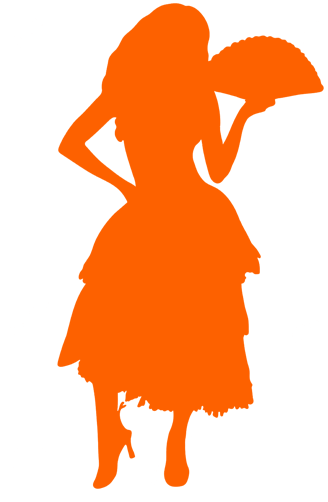
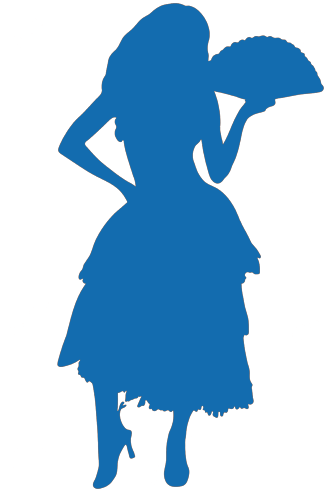
realizados los cambios para otimización del evento reina del guayas 2019

diff --git a/public/css/frontend.css b/public/css/frontend.css
@@ -108,16 +108,16 @@ hr {
 
 .inner-container {
     background: #EDEDED;
-    border: 1px solid #ff7200;
+    border: 1px solid #136CAF;
     padding:  20px
 }
 
 .inner-container img {
-    width: 15%!important;
+    width: 20%!important;
 }
 
 .inner-container h1 {
-    color: #ff7200;
+    color: #136CAF;
     text-transform: uppercase;
     text-align: center;
     font-weight: bolder;
@@ -164,7 +164,7 @@ hr {
     font-weight: bold;
 }
 .event-icon:hover {
-    background: #fdbe25;
+    background: #f8c900;
     text-decoration: none;
     color: #ffffff
 }
@@ -423,14 +423,14 @@ hr {
 
 .btn-vote {
     color: #fff;
-    background-color: #fe7c34;
-    border-color: #aa9335;
+    background-color: #ef1e38;
+    border-color: #b8172a;
     border-radius: 2px;
     margin-top: 5px;
 }
 
 .btn-vote:hover {
-    background-color: #aa9335;
+    background-color: #b8172a;
     color: #fff;
 }
 
@@ -484,9 +484,25 @@ hr {
     background: #36446b;
     border-radius: 5px;
     color: #ffffff;
-    border: 1px solid #ff7200;
+    border: 1px solid #136CAF;
 }
 
-#puntaje>option:focus, {
+#puntaje>option:focus {
     font-size: 40px;
+}
+
+.show-miss-header {
+    color:#de1b1a;
+}
+
+.panel-default>.panel-heading, 
+.panel-default>.panel-body{
+    background-color: rgb(211, 224, 233, 0.5);
+}
+
+.back-logo-institution {
+    background-image: url('../images/logo.png');
+    background-repeat: no-repeat;
+    background-position: right top;
+    background-size: contain;
 }

diff --git a/public/css/login.css b/public/css/login.css
@@ -223,13 +223,13 @@ form:after {
 .login_content form input[type="text"]:focus,
 .login_content form input[type="email"]:focus,
 .login_content form input[type="password"]:focus {
-    -webkit-box-shadow: 0 0 2px #ff7200 inset;
-    -moz-box-shadow: 0 0 2px #ff7200 inset;
-    -ms-box-shadow: 0 0 2px #ff7200 inset;
-    -o-box-shadow: 0 0 2px #ff7200 inset;
-    box-shadow: 0 0 2px #ff7200 inset;
+    -webkit-box-shadow: 0 0 2px #136CAF inset;
+    -moz-box-shadow: 0 0 2px #136CAF inset;
+    -ms-box-shadow: 0 0 2px #136CAF inset;
+    -o-box-shadow: 0 0 2px #136CAF inset;
+    box-shadow: 0 0 2px #136CAF inset;
     background-color: #fff;
-    border: 1px solid #ff7200;
+    border: 1px solid #136CAF;
     outline: none;
 }
 
@@ -314,14 +314,14 @@ header {
 
 .btn-submit {
     color: #ffffff;
-    background-color: #ff7200;
-    border-color: #ff7200;
+    background-color: #136CAF;
+    border-color: #136CAF;
 }
 
 .btn-submit:hover {
     color: #ffffff;
-    background-color: #ff7200;
-    border-color: #ff7200;
+    background-color: #136CAF;
+    border-color: #136CAF;
 }
 
 .copyright {

diff --git a/resources/views/app/show.blade.php b/resources/views/app/show.blade.php
@@ -2,19 +2,20 @@
 
 @section('content')
 <div class="container-index">
-    <div class="vertical-center inner-container col-md-10 col-md-offset-1">
-    	<img src="{{ asset('images/logo.png') }}" style="width: 15%;display: block;margin:0 auto" class="img-responsive text-center" alt="">
+    <div class="vertical-center inner-container col-md-10 col-md-offset-1 back-logo-institution">
+    	{{-- <img src="{{ asset('images/logo_reinas.png') }}" style="width: 15%;display: block;margin:0 auto" class="img-responsive text-center" alt=""> --}}
         <h1 class="text-center"> {{config('app.name')}} {{date('Y')}} - {{$current_event->name}} </h1>
         <p class="text-center">
-	        <small>Hola, {{Auth::user()->username}}</small> 
-	        <a class="btn btn-danger" href="{{ route('logout') }}" onclick="event.preventDefault();document.getElementById('logout-form').submit();">Salir</a>
+			Hola, {{Auth::user()->username}}
+			<br>
+	        <a class="btn btn-danger" href="{{ route('logout') }}" onclick="event.preventDefault();document.getElementById('logout-form').submit();"> <i class="fa fa-sign-out"></i> Salir</a>
 	        <form id="logout-form" action="{{ route('logout') }}" method="POST" style="display: none;">
 	            {{ csrf_field() }}
 	        </form>
         </p>
 
         @foreach ($misses as $miss)
-	        <h3 class="text-center"><b><span style="color: #ff7200">{{strtoupper($miss->city->name)}}</span> - {{explode(' ',$miss->name)[0]}} {{explode(' ',$miss->last_name)[0]}}</b></h3>
+	        <h3 class="text-center show-miss-header text-uppercase"><b>{{strtoupper($miss->city->name)}}</b></h3>
 	        <div class="col-md-8">
 	        	<img src="{{ asset($miss->photos) }}" alt="" class="img-responsive text-center img-block" style="width: 42%!important">
 	        </div>
@@ -45,7 +46,7 @@
 		        				<option value="{{$i}}" @if(App\Score::get($current_event->id,$miss->city->id,Auth::id()) == $i) selected @endif>{{$i}} Puntos</option>
 		        			@endfor
 		        		</select>
-		        		<button type="submit" class="btn btn-vote btn-block"><i class="fa fa-heart"></i> <b>VOTAR</b></button>
+		        		<button type="submit" class="btn btn-vote btn-block btn-lg"><i class="fa fa-heart"></i> <b>VOTAR</b></button>
 		        	</form>
 		        	<hr style="margin-top: 5px">
 		        	@endcan

diff --git a/resources/views/app/home.blade.php b/resources/views/app/home.blade.php
@@ -1,15 +1,15 @@
 @extends('layouts.frontend')
 
 @section('content')
-<div class="container-index">
-    <div class="vertical-center inner-container col-md-10 col-md-offset-1">
-        <img src="{{ asset('images/logo.png') }}" style="width: 70%;display: block;margin:0 auto" class="img-responsive text-center" alt="">
+<div class="container-index  ">
+    <div class="vertical-center inner-container col-md-10 col-md-offset-1 ">
+        <img src="{{ asset('images/logo_reinas.png') }}" style="width: 70%;display: block;margin:0 auto" class="img-responsive text-center" alt="">
         <h1 class="text-center"> {{config('app.name')}} - {{date('Y')}}  </h1>
 
-        <div class="panel panel-default">
+        <div class="panel panel-default back-logo-institution">
             <div class="panel-heading text-center" style="font-size: 20px"><b>Seleccione un evento para continuar</b>
                 <br>
-                <a class="btn btn-danger" href="{{ route('logout') }}" onclick="event.preventDefault();document.getElementById('logout-form').submit();">Salir</a>
+                <a class="btn btn-danger" href="{{ route('logout') }}" onclick="event.preventDefault();document.getElementById('logout-form').submit();"> <i class="fa fa-sign-out"></i> Salir</a>
                 <form id="logout-form" action="{{ route('logout') }}" method="POST" style="display: none;">
                     {{ csrf_field() }}
                 </form>

diff --git a/app/Http/Controllers/HomeController.php b/app/Http/Controllers/HomeController.php
@@ -5,23 +5,26 @@ namespace App\Http\Controllers;
 use Illuminate\Http\Request;
 use App\RepositoryInterface\MissRepositoryInterface;
 use App\RepositoryInterface\EventRepositoryInterface;
+use App\RepositoryInterface\ScoreRepositoryInterface;
 
 class HomeController extends Controller
 {
     
     protected $event;
     protected $miss;
+    protected $score;
 
     /**
      * Create a new controller instance.
      *
      * @return void
      */
-    public function __construct(EventRepositoryInterface $event, MissRepositoryInterface $miss)
+    public function __construct(EventRepositoryInterface $event, MissRepositoryInterface $miss, ScoreRepositoryInterface $score)
     {
         $this->middleware('auth');
         $this->event = $event;
         $this->miss = $miss;
+        $this->score = $score;
     }
 
     /**
@@ -47,7 +50,9 @@ class HomeController extends Controller
             return redirect('home');
 
         if ($this->event->getCurrent()->generateSlug() == 'ronda-de-preguntas') {
-            $misses = $this->miss->semifinalist();
+            $citiesSemifinalists = $this->score->getSemifinalist();
+            $misses = $this->miss->semifinalist($citiesSemifinalists);
+            
         } else {
             $misses = $this->miss->paginate();
         }

diff --git a/resources/views/admin/home.blade.php b/resources/views/admin/home.blade.php
@@ -198,7 +198,7 @@
 						<tr>
 							<th></th>
 						@foreach ($events as $key =>  $event)
-							<th colspan="9">
+							<th colspan="{{count($judges) + 2 }} ">
 								{{ $event->name }}
 							</th>
 							@if ( ($key + 1) == 2  )
@@ -228,10 +228,10 @@
 					@foreach (App\Score::getFullScore() as $element)
 						<tr>
 							<td><b>{{ $element->canton }}</b></td>
-							@for ($i = 0; $i < count($events) ; $i++)
+							@for ($i = 0; $i < 3 ; $i++)
 								@for ($j = 0; $j < count($judges) ; $j++)
-								@php $score = "score_ju_".($j+1)."_event".($i+1); @endphp
-								<td class="text-center">{{$element->$score}}</td>
+									@php $score = "score_ju_".($j+1)."_event".($i+1); @endphp
+									<td class="text-center">{{$element->$score}}</td>
 								@endfor
 								@php $resultevent = "sum_event_".($i+1);  @endphp
 								@php $promtevent = "prom_event_".($i+1);  @endphp
@@ -241,6 +241,7 @@
 									<td class="text-center">{{$element->semifinal}}</td>
 								@endif
 							@endfor
+							
 							<td class="text-center">{{$element->gran_total}}</td>
 							<td class="text-center">{{$element->promedio_final}}</td>
 						</tr>

diff --git a/app/Score.php b/app/Score.php
@@ -302,21 +302,27 @@ class Score extends Model
       //from
       $sql.= " FROM city ,"; 
 
-      for ($i=0; $i < count($eventsNormalId) ; $i++) {
-        for ($j=0; $j < $numJudges; $j++) { 
-          $sql.= "ju".($j+1)."ev".($i+1)." ";
-          if (($j+1) <= $numJudges) {
+    for ($j=0; $j < $numJudges; $j++) { 
+        
+      for ($i=0; $i < $numAllEvents ; $i++) {
+            $sql.= "ju".($j+1)."ev".($i+1)." ";
+            
+          if (($i+1) < $numAllEvents) {
               $sql.=" , ";
           }
-        }
       }
+
+      if( ($j + 1) < $numJudges) {
+        $sql.= " , ";
+      }
+    }
       
-      for ($j=0; $j < $numJudges ; $j++) { 
-        $sql.= "ju".($j+1)."ev3";
-          if (($j+1) < $numJudges) {
-              $sql.=" , ";
-          }
-      }
+      // for ($j=0; $j < $numJudges ; $j++) { 
+      //   $sql.= "ju".($j+1)."ev3";
+      //     if (($j+1) < $numJudges) {
+      //         $sql.=" , ";
+      //     }
+      // }
 
 
 

diff --git a/resources/views/admin/cities/index.blade.php b/resources/views/admin/cities/index.blade.php
@@ -18,16 +18,18 @@
 	   		<table class="table table-bordered">
 	   			<thead>
 	   				<tr>
-	   					<th class="text-center col-md-8">Nombre</th>
-	   					<th class="text-center col-md-2">Estado</th>
-	   					<th class="text-center col-md-2">Acción</th>
+	   					<th class="text-center">N°</th>
+	   					<th class="text-center">Nombre</th>
+	   					<th class="text-center">Estado</th>
+	   					<th class="text-center">Acción</th>
 	   				</tr>
 	   			</thead>
 	   			<tbody>
 	   				@if (count($cities) > 0)
-	   					@foreach ($cities as $city)
+	   					@foreach ($cities as $key => $city)
 			   				<tr>
-			   					<td>{{$city->name}}</td>
+								<td> {{$key+1}} </td>   
+								<td>{{$city->name}}</td>
 			   					<td>@if($city->state == 1) <b class="text-success">Activo</b> @else <b class="text-danger"> Inactivo</b> @endif</td>
 			   					<td>
 			   						<a class="btn btn-primary btn-sm" href="{{ url('admin/cities/'.$city->id.'/edit') }}">Editar</a>

diff --git a/resources/views/auth/login.blade.php b/resources/views/auth/login.blade.php
@@ -8,10 +8,11 @@
 <div id="wrapper">
       <div id="login" class="animated form bounceIn">
         <section class="login_content">
-          <img src="{{ asset('images/logo.png') }}" style="width: 70%;display: block;margin:0 auto" class="img-responsive text-center" alt="">
+          <img src="{{ asset('images/logo_reinas.png') }}" style="width: 70%;display: block;margin:0 auto" class="img-responsive text-center" alt="">
           <form method="post" action="{{ route('dologin') }}">
             <input type="hidden" name="_token" value="{{ csrf_token() }}">
-            <h1>{{config('app.name')}} <br> Ingreso</h1>
+            <h1>{{config('app.name')}}</h1>
+            <h3>Ingreso</h3>
             @if (count($errors) > 0)
               <div class="alert alert-danger alert-dismissible fade in" role="alert">
                     <button type="button" class="close" data-dismiss="alert" aria-label="Close"><span aria-hidden="true">×</span>

diff --git a/app/Repository/MissRepository.php b/app/Repository/MissRepository.php
@@ -101,9 +101,23 @@ class MissRepository implements MissRepositoryInterface
 		return public_path().'/uploads/'.date('Y').'/';
 	}
 
-	public function semifinalist()
+
+	/**
+	 * TODO
+	 *
+	 * @return void
+	 */
+	public function semifinalist($citiesSemifinalists)
 	{
-		return Miss::select('miss.*')->leftJoin('city','miss.city_id','=','city.id')->where('miss.state',1)->whereIn('city.id',[4,6,3,2,1])->orderBy('city.name','asc')->paginate(1);
+		$misses =  Miss::select('miss.*')
+		->leftJoin('city','miss.city_id','=','city.id')
+		->where('miss.state',1)
+		->whereRaw("city.name in ($citiesSemifinalists)")
+		->orderBy('city.name','asc')
+		->paginate(1);
+		return $misses;
+
+		
 	}
 
 

diff --git a/resources/views/app/thanks.blade.php b/resources/views/app/thanks.blade.php
@@ -2,7 +2,7 @@
 @section('content')
 	<div class="container-index">
 		<div class="vertical-center inner-container col-md-10 col-md-offset-1" style="margin-top: 4%">
-			<img src="{{ asset('images/logo.png') }}" style="width: 40%!important;display: block;margin:0 auto" class="img-responsive text-center" alt="">
+			<img src="{{ asset('images/logo_reinas.png') }}" style="width: 40%!important;display: block;margin:0 auto" class="img-responsive text-center" alt="">
 			<div class="row">
 				<h1 class="text-center col-md-6 col-md-offset-3" style="font-size: 40px"> GRACIAS POR VOTAR POR {{strtoupper($current_event->name)}} </h1>
 			</div>

diff --git a/app/Repository/ScoreRepository.php b/app/Repository/ScoreRepository.php
@@ -110,4 +110,21 @@ class ScoreRepository implements ScoreRepositoryInterface
 		return true;
 	}
 
+
+	public function getSemifinalist()
+	{
+		$semifinalists = Score::getScore(null,'semifinalist');
+
+		$citiesSemifinalists = '';
+
+		for ($i=0; $i < count($semifinalists) ; $i++) { 
+			$citiesSemifinalists.= "'". $semifinalists[$i]->name ."'";
+			if( ($i + 1 ) < count($semifinalists) ) $citiesSemifinalists.=',';
+		}
+		
+		return $citiesSemifinalists; 
+		
+
+	}
+
 }
